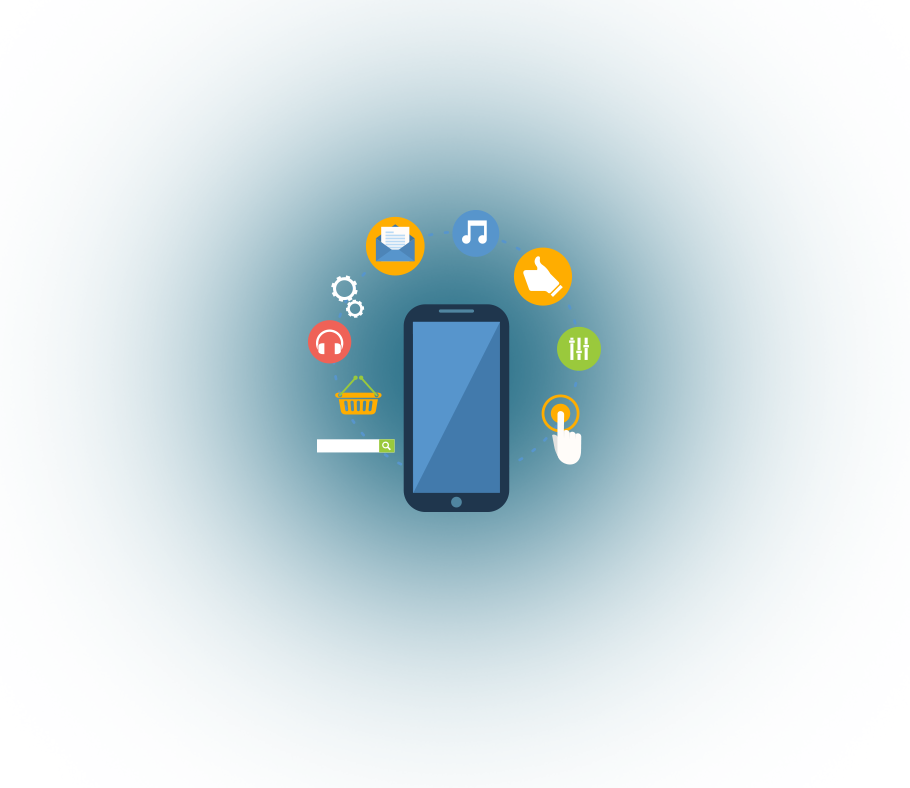
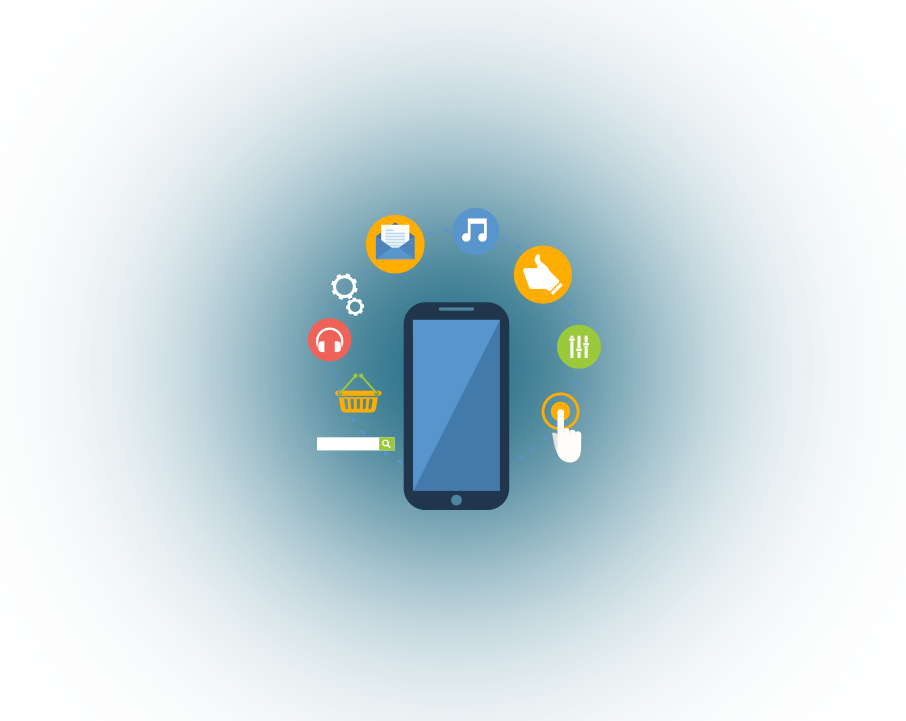
Pricing image size on desktop

Changed region(s): [[0.34, 0.2441, 0.6799, 0.9154]]

diff --git a/src/stylesheets/application.css b/src/stylesheets/application.css
@@ -14,13 +14,15 @@ p {
   font-size: 0.7rem;
   line-height: 20px; }
 
+section {
+  padding: 3rem 1.5rem; }
+
 .main {
   margin-top: 60px; }
 
 .wrap {
   position: relative;
-  margin: 0 auto;
-  padding: 3rem 1.5rem; }
+  margin: 0 auto; }
   .wrap:after {
     content: "";
     display: table;
@@ -194,9 +196,16 @@ a, a:visited, a:hover, a:active {
   background-position: center -120px;
   background-repeat: no-repeat;
   background-size: 700px; }
+  @media screen and (min-width: 768px) {
+    .pricing-description {
+      background-position: -100px center; } }
 
 .pricing-content {
   padding-top: 270px; }
+  @media screen and (min-width: 768px) {
+    .pricing-content {
+      padding-top: 0;
+      padding-left: 280px; } }
 
 .testimonials .testimonials-content:after {
   content: "";
@@ -243,13 +252,8 @@ a, a:visited, a:hover, a:active {
 
 .footer {
   text-align: center; }
-  .footer .footer-wrap {
-    position: relative;
-    margin: 0 auto;
+  .footer .footer-top {
     padding: 2rem 0.5rem; }
-    @media screen and (min-width: 768px) {
-      .footer .footer-wrap {
-        width: 70%; } }
   .footer .social-links {
     list-style: none; }
     .footer .social-links .social-links-item {
@@ -278,6 +282,6 @@ a, a:visited, a:hover, a:active {
     float: right;
     width: 37%; }
   .footer .footer-bottom {
-    padding: 10px 0; }
+    padding: 1rem 0; }
 
 /*# sourceMappingURL=application.css.map */

diff --git a/src/stylesheets/partials/_pricing.scss b/src/stylesheets/partials/_pricing.scss
@@ -7,8 +7,17 @@
   background-position: center -120px;
   background-repeat: no-repeat;
   background-size: 700px;
+
+  @media screen and (min-width: $screen-tablet) {
+    background-position: -100px center;
+  }
 }
 
 .pricing-content {
   padding-top: 270px;
+
+  @media screen and (min-width: $screen-tablet) {
+    padding-top: 0;
+    padding-left: 280px;
+  }
 }

diff --git a/src/stylesheets/partials/_footer.scss b/src/stylesheets/partials/_footer.scss
@@ -1,14 +1,8 @@
 .footer {
   text-align: center;
 
-  .footer-wrap {
-    position: relative;
-    margin: 0 auto;
+  .footer-top {
     padding: 2rem 0.5rem;
-
-    @media screen and (min-width: $screen-tablet) {
-      width: 70%;
-    }
   }
 
   .social-links {
@@ -49,7 +43,7 @@
   }
 
   .footer-bottom {
-    padding: 10px 0;
+    padding: 1rem 0;
   }
 
 }

diff --git a/src/index.html b/src/index.html
@@ -127,7 +127,7 @@
 
     <footer class="footer">
       <div class="footer-top dark-blue-background">
-        <div class="footer-wrap">
+        <div class="wrap">
           <div class="left">
             <div class="social">
               <ul class="social-links">

diff --git a/src/stylesheets/partials/_base.scss b/src/stylesheets/partials/_base.scss
@@ -55,7 +55,9 @@ p {
   font-size: 0.7rem;
   line-height: 20px;
 }
-
+section {
+  padding: 3rem 1.5rem;
+}
 
 .main {
   margin-top: 60px;
@@ -64,7 +66,6 @@ p {
 .wrap {
   position: relative;
   margin: 0 auto;
-  padding: 3rem 1.5rem;
 
   &:after{
     content: "";

diff --git a/src/stylesheets/partials/_business.scss b/src/stylesheets/partials/_business.scss
@@ -10,10 +10,6 @@
   .business-ball {
     display: inline-block;
     margin: 1rem 1.5rem;
-
-    @media screen and (min-width: $screen-tablet) {
-      
-    }
   }
   .business-ball-img {
     width: 8rem;
